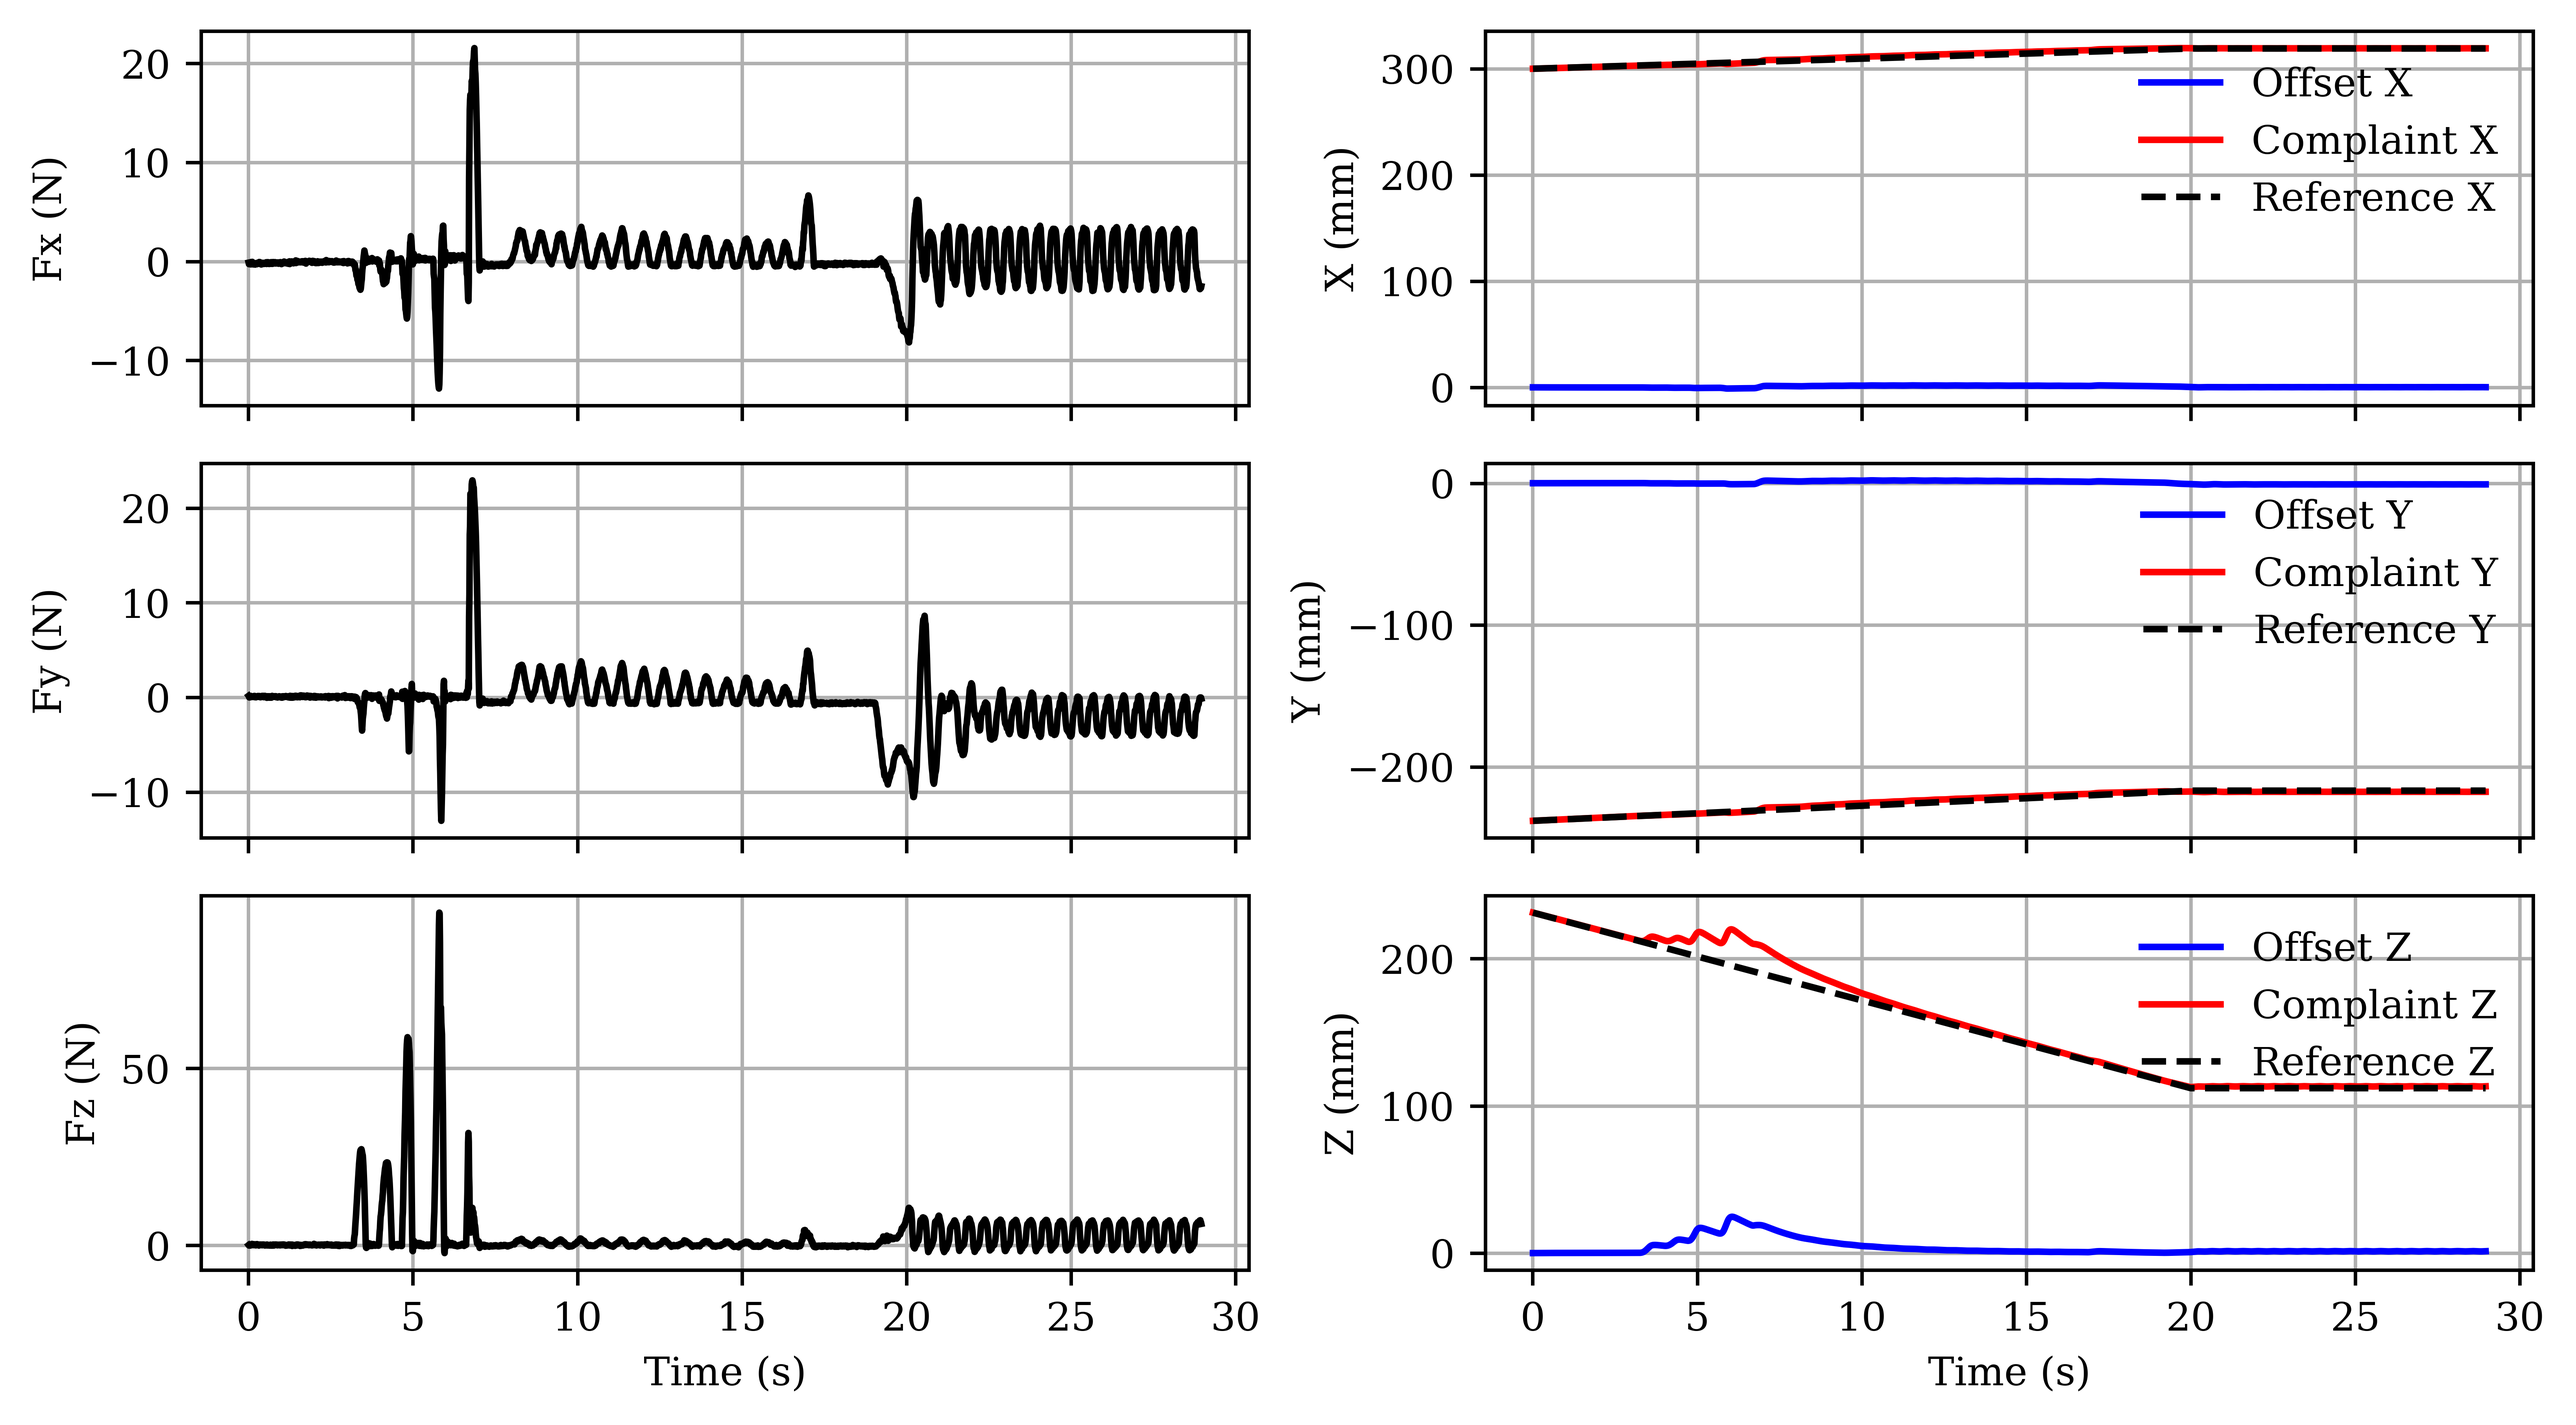
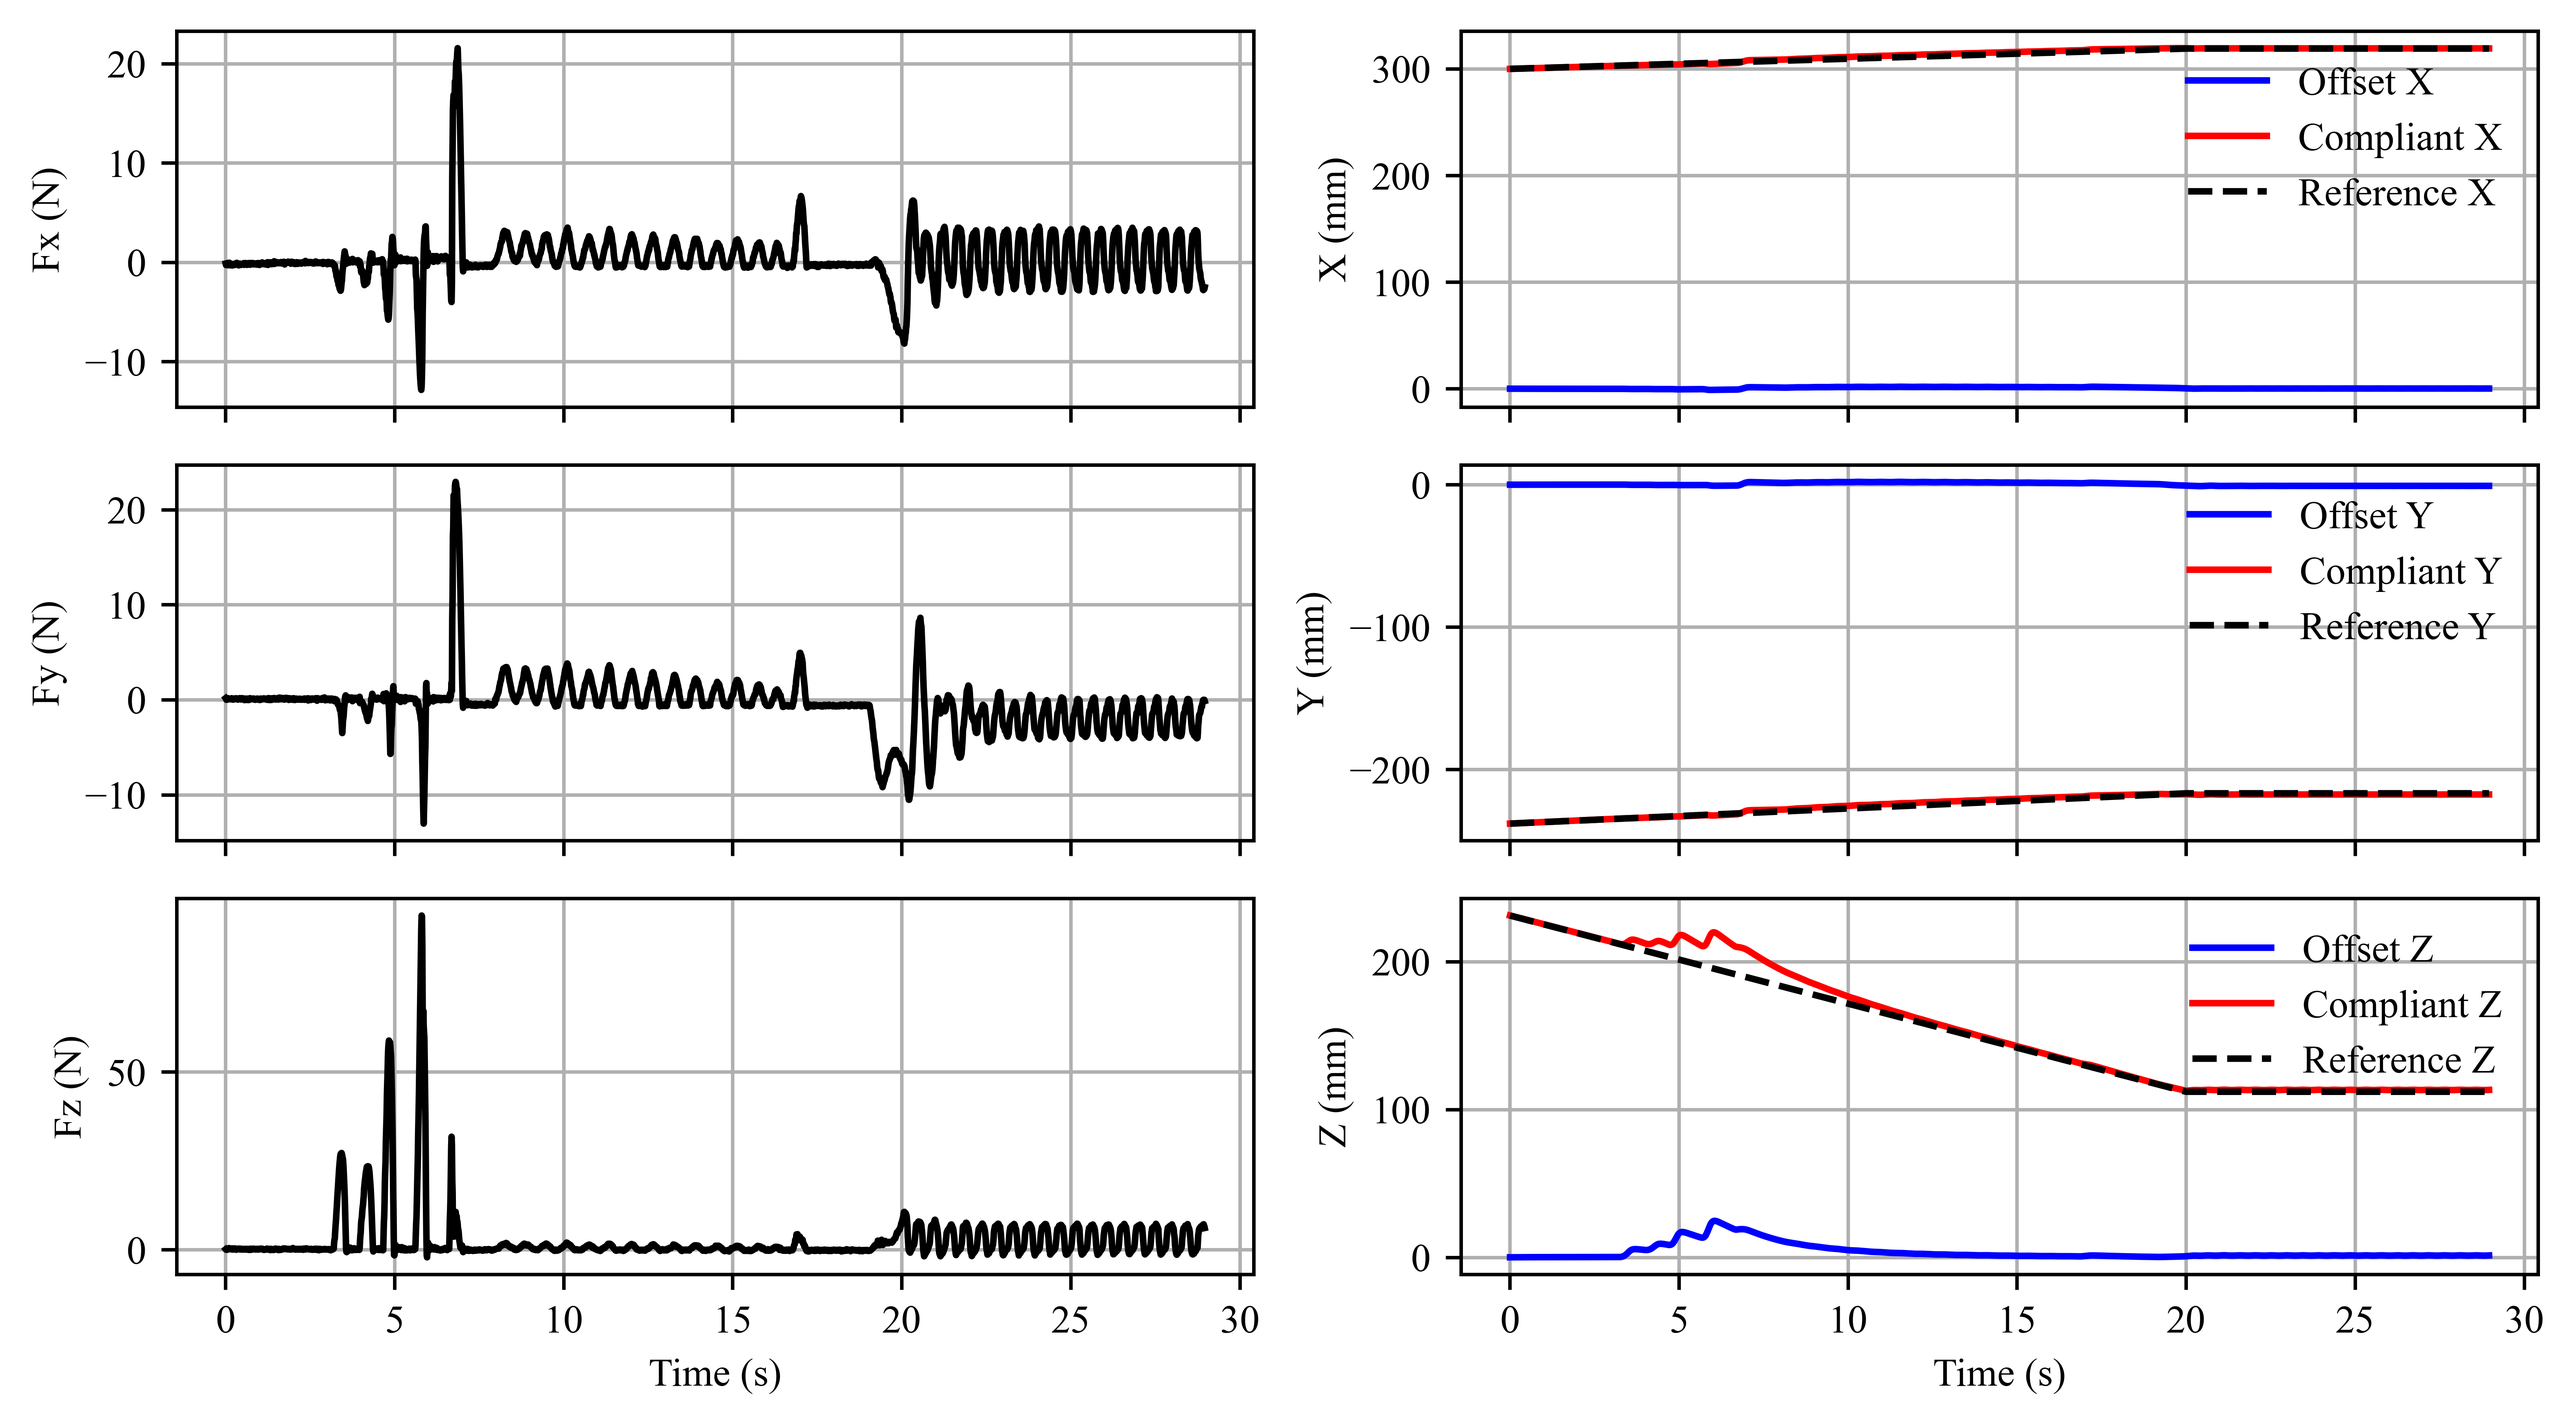
comment out the legend

diff --git a/admittance_control/plot_data.py b/admittance_control/plot_data.py
@@ -61,14 +61,14 @@ for i in range(3):
     # ax.plot(time_log, filtered_force_log[:, i], 'r--', label='Filt ' + force_labels[i])
     ax.set_ylabel(f"{force_labels[i]} (N)")
     # ax.set_title(force_labels[i])
-    ax.legend(loc='upper right', frameon=False)
+    # ax.legend(loc='upper right', frameon=False)
     ax.grid(True)
 
 # --- Right Column: Motion (Position) Plots ---
 for i in range(3):
     ax = axs[i, 1]
     ax.plot(time_log, offset_log_mm[:, i], 'b-', label='Offset ' + axis_labels[i])
-    ax.plot(time_log, target_pose_log_mm[:, i], 'r-', label='Complaint ' + axis_labels[i])
+    ax.plot(time_log, target_pose_log_mm[:, i], 'r-', label='Compliant ' + axis_labels[i])
     ax.plot(time_log, reference_pose_log_mm[:, i], 'k--', label='Reference ' + axis_labels[i])
     ax.set_ylabel(f"{axis_labels[i]} (mm)")
     # ax.set_title(axis_labels[i])
